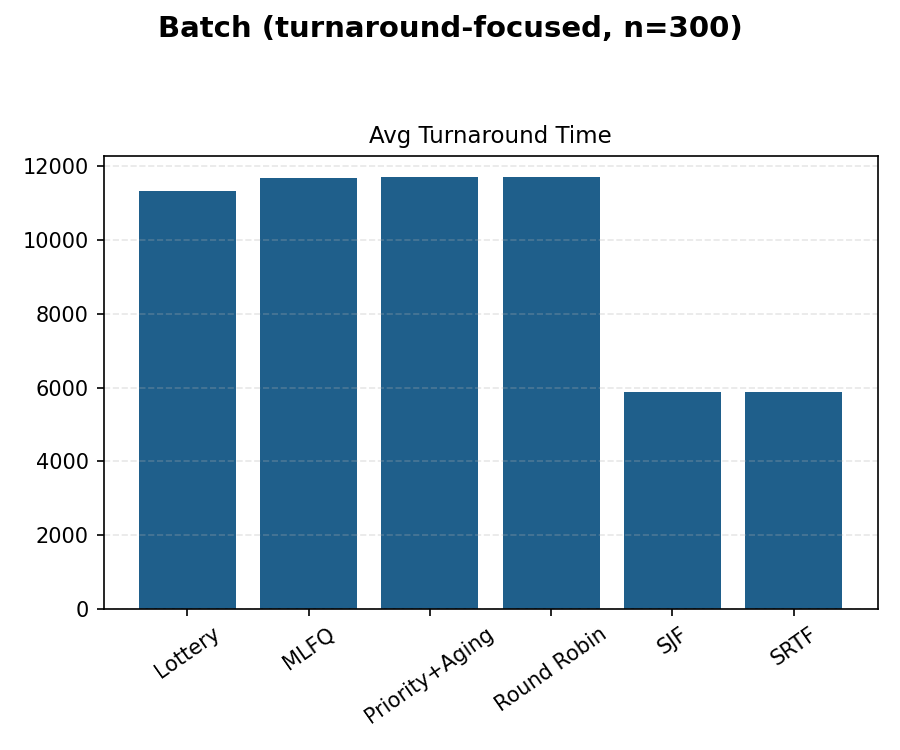
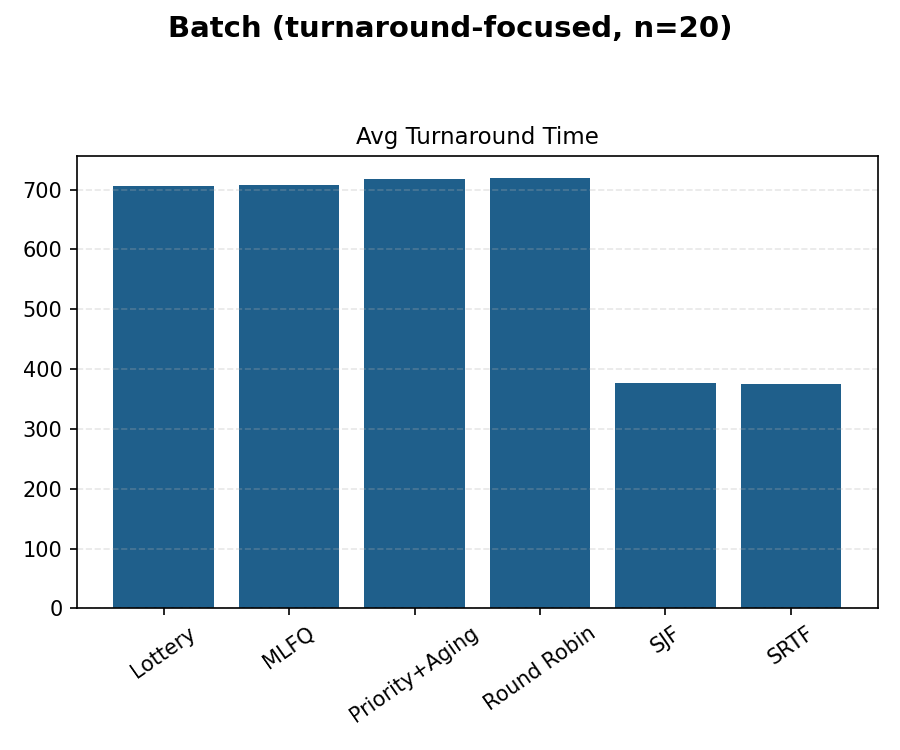
fix starvation metric calculation

Changed region(s): [[0.0311, 0.1533, 0.9644, 0.9507], [0.1556, 0.0, 0.84, 0.0613], [0.0311, 0.184, 0.1244, 0.276]]

diff --git a/simulation/metrics.py b/simulation/metrics.py
@@ -13,18 +13,31 @@ class SimulationMetrics:
     avg_turnaround_time: float
     avg_response_time: float
     tail_latency_p95: float  # 95th percentile turnaround time
-    starvation_rate: float  # fraction of jobs with first-run wait > threshold
-    lifetime_starvation_rate: float  # fraction of jobs with total wait > threshold
+    starvation_rate: float  # fraction of jobs with first-run wait > factor * burst
+    lifetime_starvation_rate: float  # fraction of jobs with total wait > factor * burst
     total_jobs: int
     completed_jobs: int
 
 
+def _median(values: List[float]) -> float:
+    if not values:
+        return 0.0
+    s = sorted(values)
+    mid = len(s) // 2
+    return (s[mid] + s[mid - 1]) / 2 if len(s) % 2 == 0 else s[mid]
+
+
 def compute_metrics(
     completed_jobs: List[Job],
-    starvation_threshold: int = 100,
+    starvation_factor: float = 2.0,
 ) -> SimulationMetrics:
     """
     Compute all evaluation metrics from completed jobs.
+
+    Starvation uses a median-relative, scale-invariant definition: a job is
+    starved if its wait ratio (wait/burst) exceeds factor × the median ratio.
+    This distinguishes unfair schedulers (some jobs wait much longer than
+    typical) from fair ones (everyone waits similarly).
     """
     if not completed_jobs:
         return SimulationMetrics(
@@ -53,23 +66,34 @@ def compute_metrics(
     p95_idx = min(p95_idx, len(sorted_tt) - 1)
     tail_p95 = sorted_tt[p95_idx] if sorted_tt else 0.0
 
-    # Starvation (first-run): jobs whose wait before first run > threshold.
-    starvation_count = 0
+    # First-run wait ratios: wait_before_first_run / burst
+    first_run_ratios = []
     for j in completed_jobs:
-        if j.first_run_time is not None:
+        if j.first_run_time is not None and j.burst_time > 0:
             wait = j.first_run_time - j.arrival_time
-            if wait > starvation_threshold:
-                starvation_count += 1
+            first_run_ratios.append(wait / j.burst_time)
+    median_first = _median(first_run_ratios) if first_run_ratios else 0.0
+    threshold_first = max(starvation_factor * median_first, 1.0)  # at least 1x burst
+    starvation_count = sum(
+        1 for j in completed_jobs
+        if j.first_run_time is not None and j.burst_time > 0
+        and (j.first_run_time - j.arrival_time) / j.burst_time > threshold_first
+    )
     starvation_rate = starvation_count / len(completed_jobs) if completed_jobs else 0.0
 
-    # Lifetime starvation: jobs whose total wait (turnaround - burst) > threshold.
-    # Captures jobs that ran but were repeatedly preempted/delayed over their lifetime.
-    lifetime_starve_count = 0
+    # Lifetime: total_wait/burst ratios. Starved if ratio > factor × median.
+    lifetime_ratios = []
     for j in completed_jobs:
-        if j.turnaround_time is not None:
+        if j.turnaround_time is not None and j.burst_time > 0:
             total_wait = j.turnaround_time - j.burst_time
-            if total_wait > starvation_threshold:
-                lifetime_starve_count += 1
+            lifetime_ratios.append(total_wait / j.burst_time)
+    median_lifetime = _median(lifetime_ratios) if lifetime_ratios else 0.0
+    threshold_lifetime = max(starvation_factor * median_lifetime, 1.0)
+    lifetime_starve_count = sum(
+        1 for j in completed_jobs
+        if j.turnaround_time is not None and j.burst_time > 0
+        and (j.turnaround_time - j.burst_time) / j.burst_time > threshold_lifetime
+    )
     lifetime_starvation_rate = (
         lifetime_starve_count / len(completed_jobs) if completed_jobs else 0.0
     )

diff --git a/experiments/runner.py b/experiments/runner.py
@@ -42,7 +42,7 @@ def run_experiments(
     schedulers: List[Type[Scheduler]] | None = None,
     quantum: int = 4,
     workload_seed: int = 42,
-    starvation_threshold: int = 100,
+    starvation_factor: float = 2.0,
     batch_num_jobs: int = 20,
     interactive_num_jobs: int = 50,
     mixed_num_batch: int = 10,
@@ -73,7 +73,7 @@ def run_experiments(
             scheduler = SchedulerClass()
             engine = SimulationEngine(scheduler=scheduler, quantum=quantum)
             completed = engine.run(jobs)
-            metrics = compute_metrics(completed, starvation_threshold=starvation_threshold)
+            metrics = compute_metrics(completed, starvation_factor=starvation_factor)
             results.append(
                 ExperimentResult(
                     scheduler_name=scheduler.name,
@@ -113,5 +113,5 @@ def print_results_table(results: List[ExperimentResult]) -> None:
                   f"{m.lifetime_starvation_rate*100:>10.2f}%")
 
     print("\n" + "=" * 100)
-    print("Starv(1st)  = % of jobs waiting > threshold before first run")
-    print("Starv(life) = % of jobs whose total wait (turnaround - burst) > threshold")
+    print("Starv(1st)  = % of jobs with first-run wait/burst > factor × median")
+    print("Starv(life) = % of jobs with total wait/burst > factor × median (median-relative)")

diff --git a/platform_ui/app.py b/platform_ui/app.py
@@ -47,8 +47,12 @@ def main() -> None:
     with st.sidebar:
         st.header("Experiment Settings")
         quantum = st.number_input("Global quantum", min_value=1, value=4, step=1)
-        starvation_threshold = st.number_input(
-            "Starvation threshold", min_value=1, value=100, step=1
+        starvation_factor = st.number_input(
+            "Starvation factor (median-relative: wait/burst > factor × median)",
+            min_value=0.1,
+            value=2.0,
+            step=0.1,
+            format="%.1f",
         )
         lottery_seed = st.number_input("Lottery seed", min_value=0, value=42, step=1)
 
@@ -90,7 +94,7 @@ def main() -> None:
                 jobs=jobs,
                 scheduler_names=scheduler_names,
                 quantum=quantum,
-                starvation_threshold=starvation_threshold,
+                starvation_factor=starvation_factor,
                 lottery_seed=lottery_seed,
             )
         except ValueError as err:

diff --git a/main.py b/main.py
@@ -16,10 +16,10 @@ def parse_args() -> argparse.Namespace:
         "--seed", type=int, default=42, help="Random seed for workload generation."
     )
     parser.add_argument(
-        "--starvation-threshold",
-        type=int,
-        default=100,
-        help="Threshold for Starv(1st) and Starv(life).",
+        "--starvation-factor",
+        type=float,
+        default=2.0,
+        help="Starvation threshold = factor × burst_time (scale-invariant).",
     )
     parser.add_argument(
         "--batch-num-jobs",
@@ -63,7 +63,7 @@ def main() -> None:
     results = run_experiments(
         quantum=args.quantum,
         workload_seed=args.seed,
-        starvation_threshold=args.starvation_threshold,
+        starvation_factor=args.starvation_factor,
         batch_num_jobs=args.batch_num_jobs,
         interactive_num_jobs=args.interactive_num_jobs,
         mixed_num_batch=args.mixed_num_batch,

diff --git a/platform_ui/experiment_service.py b/platform_ui/experiment_service.py
@@ -53,7 +53,7 @@ def run_platform_experiment(
     jobs: list[Job],
     scheduler_names: list[str],
     quantum: int,
-    starvation_threshold: int,
+    starvation_factor: float,
     lottery_seed: int,
 ) -> list[PlatformRunResult]:
     if not jobs:
@@ -66,7 +66,7 @@ def run_platform_experiment(
         scheduler = build_scheduler(scheduler_name, lottery_seed=lottery_seed)
         engine = SimulationEngine(scheduler=scheduler, quantum=quantum)
         completed_jobs = engine.run(jobs)
-        metrics = compute_metrics(completed_jobs, starvation_threshold=starvation_threshold)
+        metrics = compute_metrics(completed_jobs, starvation_factor=starvation_factor)
         results.append(
             PlatformRunResult(
                 scheduler_name=scheduler.name,

diff --git a/README.md b/README.md
@@ -16,7 +16,7 @@ Customize experiment size/parameters from CLI:
 
 ```bash
 python main.py --batch-num-jobs 20 --interactive-num-jobs 50 --mixed-num-batch 10 --mixed-num-interactive 30
-python main.py --quantum 4 --starvation-threshold 100 --seed 42 --no-viz
+python main.py --quantum 4 --starvation-factor 2.0 --seed 42 --no-viz
 ```
 
 ## Platform Extension (UI)
@@ -70,8 +70,8 @@ Scheduling-Simulator/
 | **Avg Turnaround Time** | Mean of (completion_time - arrival_time) across all jobs. Measures batch efficiency. |
 | **Avg Response Time** | Mean of (first_run_time - arrival_time). Measures interactive responsiveness. |
 | **Tail Latency (p95)** | 95th percentile turnaround time. Captures worst-case user experience. |
-| **Starv(1st)** | Fraction of jobs whose wait before first run exceeds a threshold. Measures initial scheduling delay. |
-| **Starv(life)** | Fraction of jobs whose total wait over their lifetime (turnaround - burst) exceeds a threshold. Captures repeated preemption/demotion starvation that first-run misses (e.g., MLFQ demoting long jobs). |
+| **Starv(1st)** | Fraction of jobs with (first-run wait / burst) > factor × median ratio. Flags unfair initial delay. |
+| **Starv(life)** | Fraction of jobs with (total wait / burst) > factor × median ratio. Flags unfair lifetime delay (e.g., MLFQ demoting long jobs). Default factor = 2.0. |
 
 ## Schedulers
 
@@ -128,4 +128,4 @@ MLFQ is expected to show a split: near-zero first-run starvation (new jobs alway
 
 - Add schedulers in `schedulers/` (subclass `Scheduler`)
 - Add workloads in `workloads/generator.py`
-- Tune parameters in `experiments/runner.py` (quantum, starvation threshold, etc.)
+- Tune parameters in `experiments/runner.py` (quantum, starvation factor, etc.)
